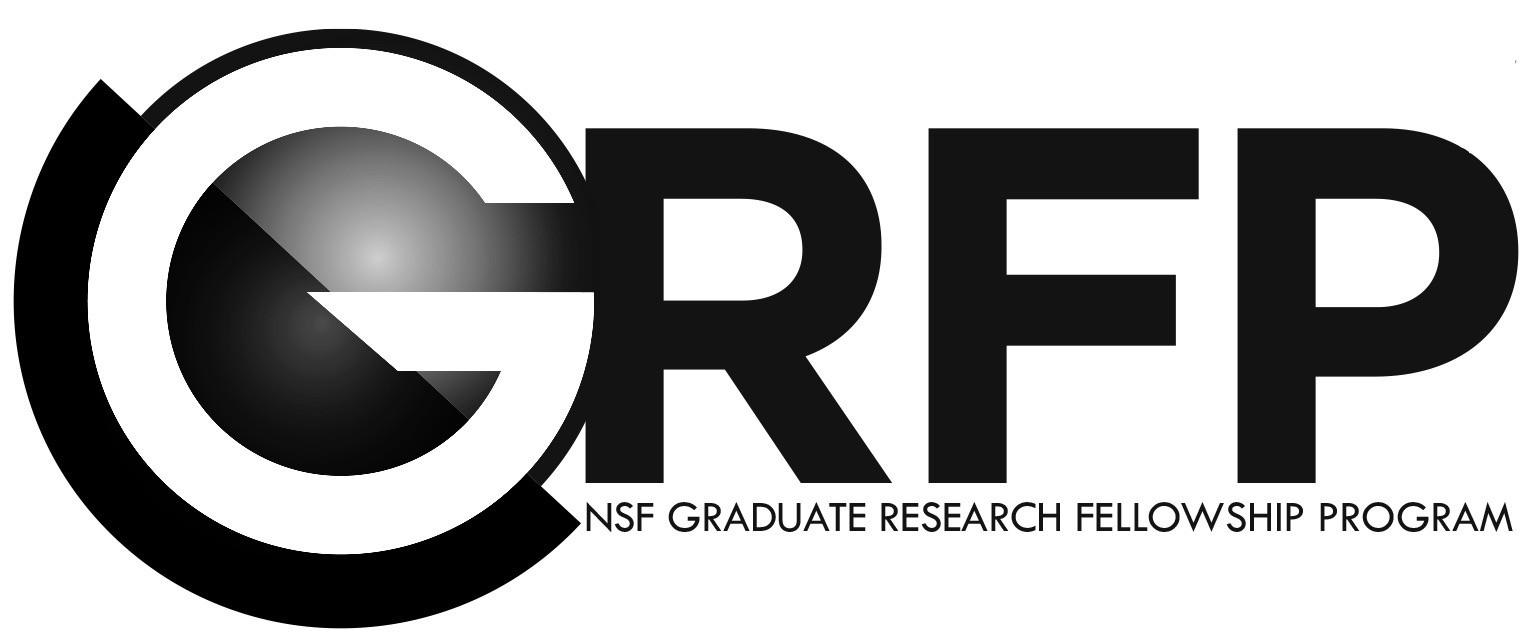
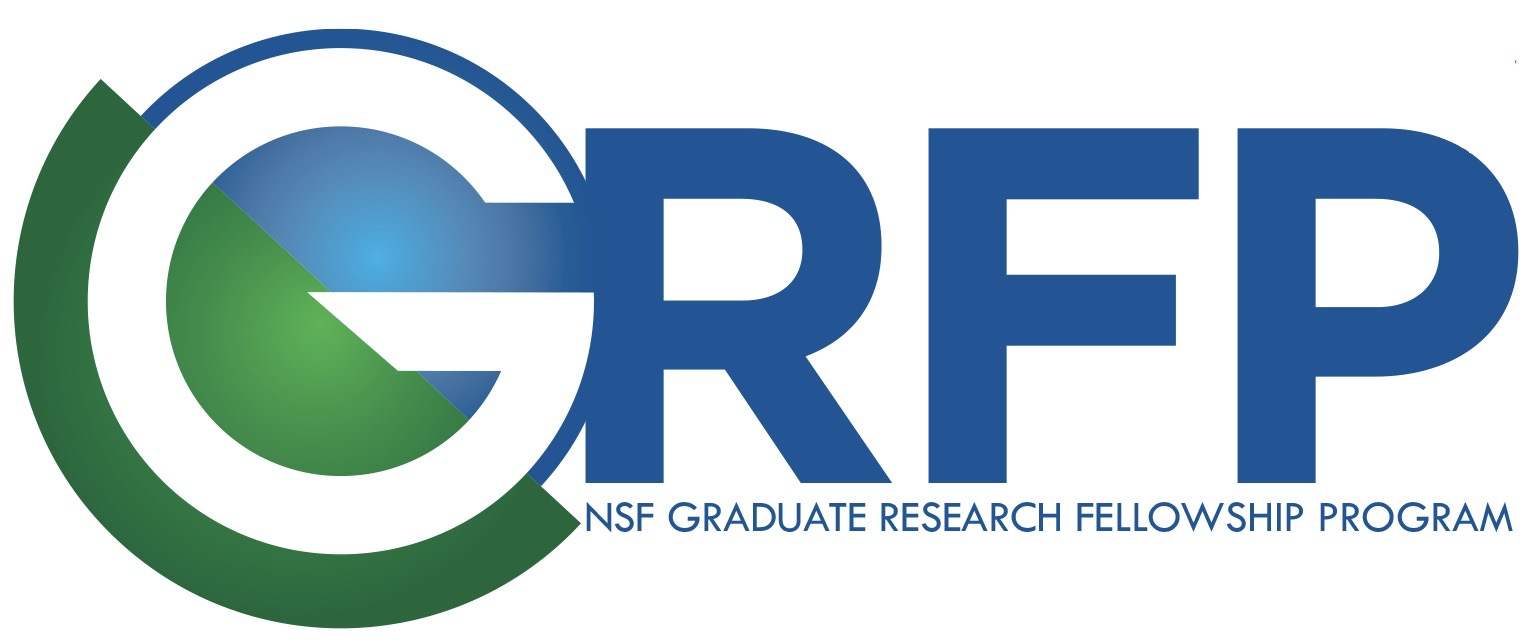
colorful photos

diff --git a/about.html b/about.html
@@ -173,23 +173,30 @@
               <div style="height:10px;"><span class="tl-line"></span></div>
               <p>Graduate Research Fellowship</p>
               <p>National Science Foundation</p>
+            <div class="timeline_photo">
             <a href="https://www.nsfgrfp.org/">
-              <img src="images/GRFP.png" alt="" style="width:190px;height:80px;">
+              <img src="images/GRFPBW.png" class="off grfp">
+              <img src="images/GRFP.png" class="on grfp">
             </a>
+          </div>
               <div style="height:160px;"><span class="tl-line"></span></div>
               <p>Began Ph.D in Physics</p>
               <p> The University of Chicago</p>
+            <div class="timeline_photo">
               <a href="https://physics.uchicago.edu/">
-              <img src="images/UChicago.png" alt="" style="width:80px;height:100px;">
+              <img src="images/UCBW.png" class="off uc">
+              <img src="images/UC.png" class="on uc">
             </a>
+          </div>
               <div style="height:150px;"><span class="tl-line"></span></div>
               <p>Awarded B.S. in Physics</p>
               <p> Tufts University</p>
-              <div class="tuftsU">
+              <div class="timeline_photo">
               <a href=https://as.tufts.edu/physics/>
               <img src="images/TuftsBW.png" class="off tufts" >
               <img src="images/Tufts.png" class="on tufts">
             </a>
+          </div>
               <div style="height:25px;"><span class="tl-line"></span></div>
             </div>
           </td>

diff --git a/css/responsive.css b/css/responsive.css
@@ -102,22 +102,22 @@
     }
 }
 
-.tuftsU{
+.timeline_photo{
   position: relative;
   display: inline-block;
 
 }
-.tuftsU .off {
+.timeline_photo .off {
   display: inline;
   position: absolute;
 }
-.tuftsU .on {
+.timeline_photo .on {
   display:inline;
   top:0;
   left:0;
   z-index:99;
 }
-.tuftsU:hover .off{
+.timeline_photo:hover .off{
   opacity:0;
   transition:.3s;
 }
@@ -125,6 +125,16 @@
 .tufts{
   width:100px;
   height:100px;
+}
+
+.uc{
+  width:80px;
+  height:100px;"
+}
+
+.grfp{
+  width:190px;
+  height:80px;
 }
 
 @media (max-width: 480px) {}
